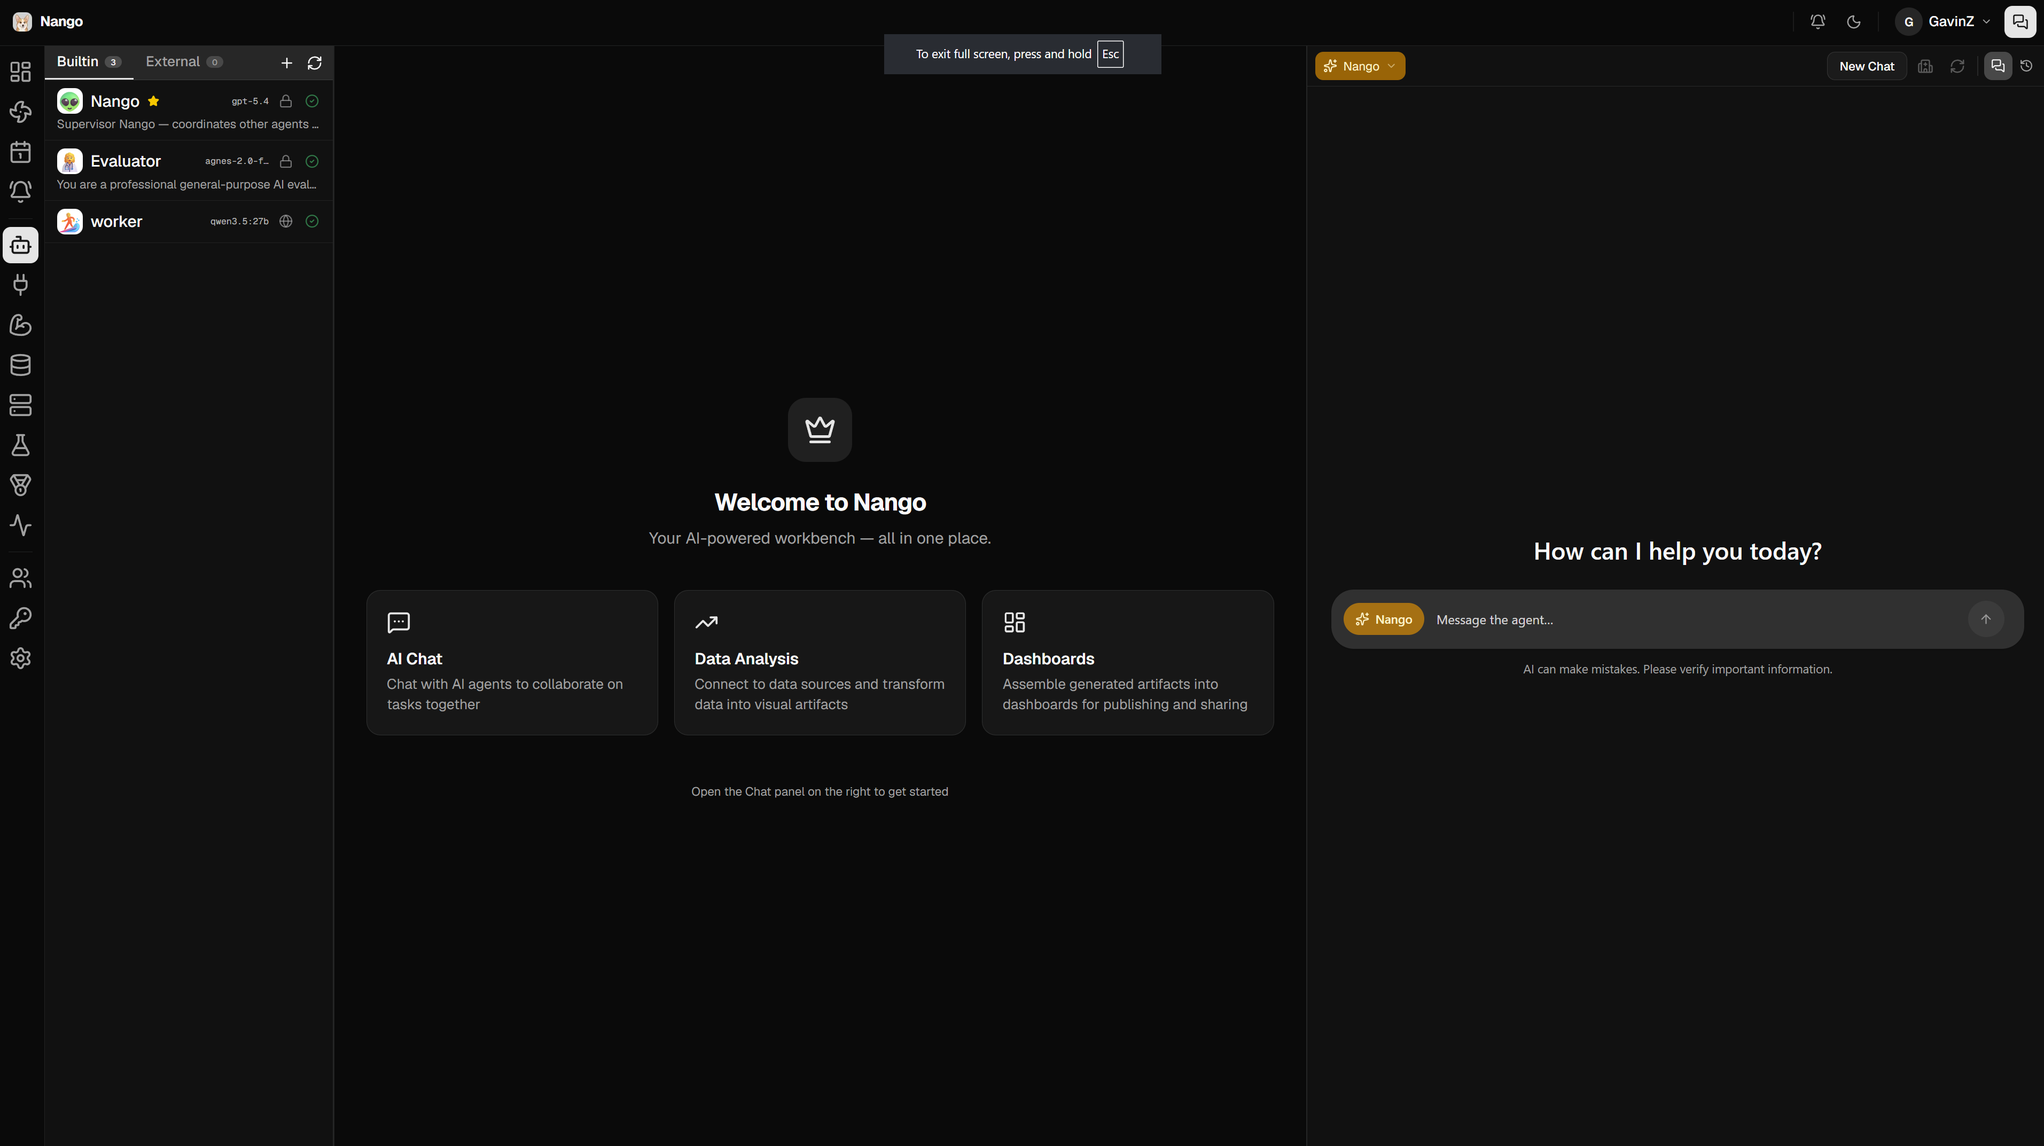
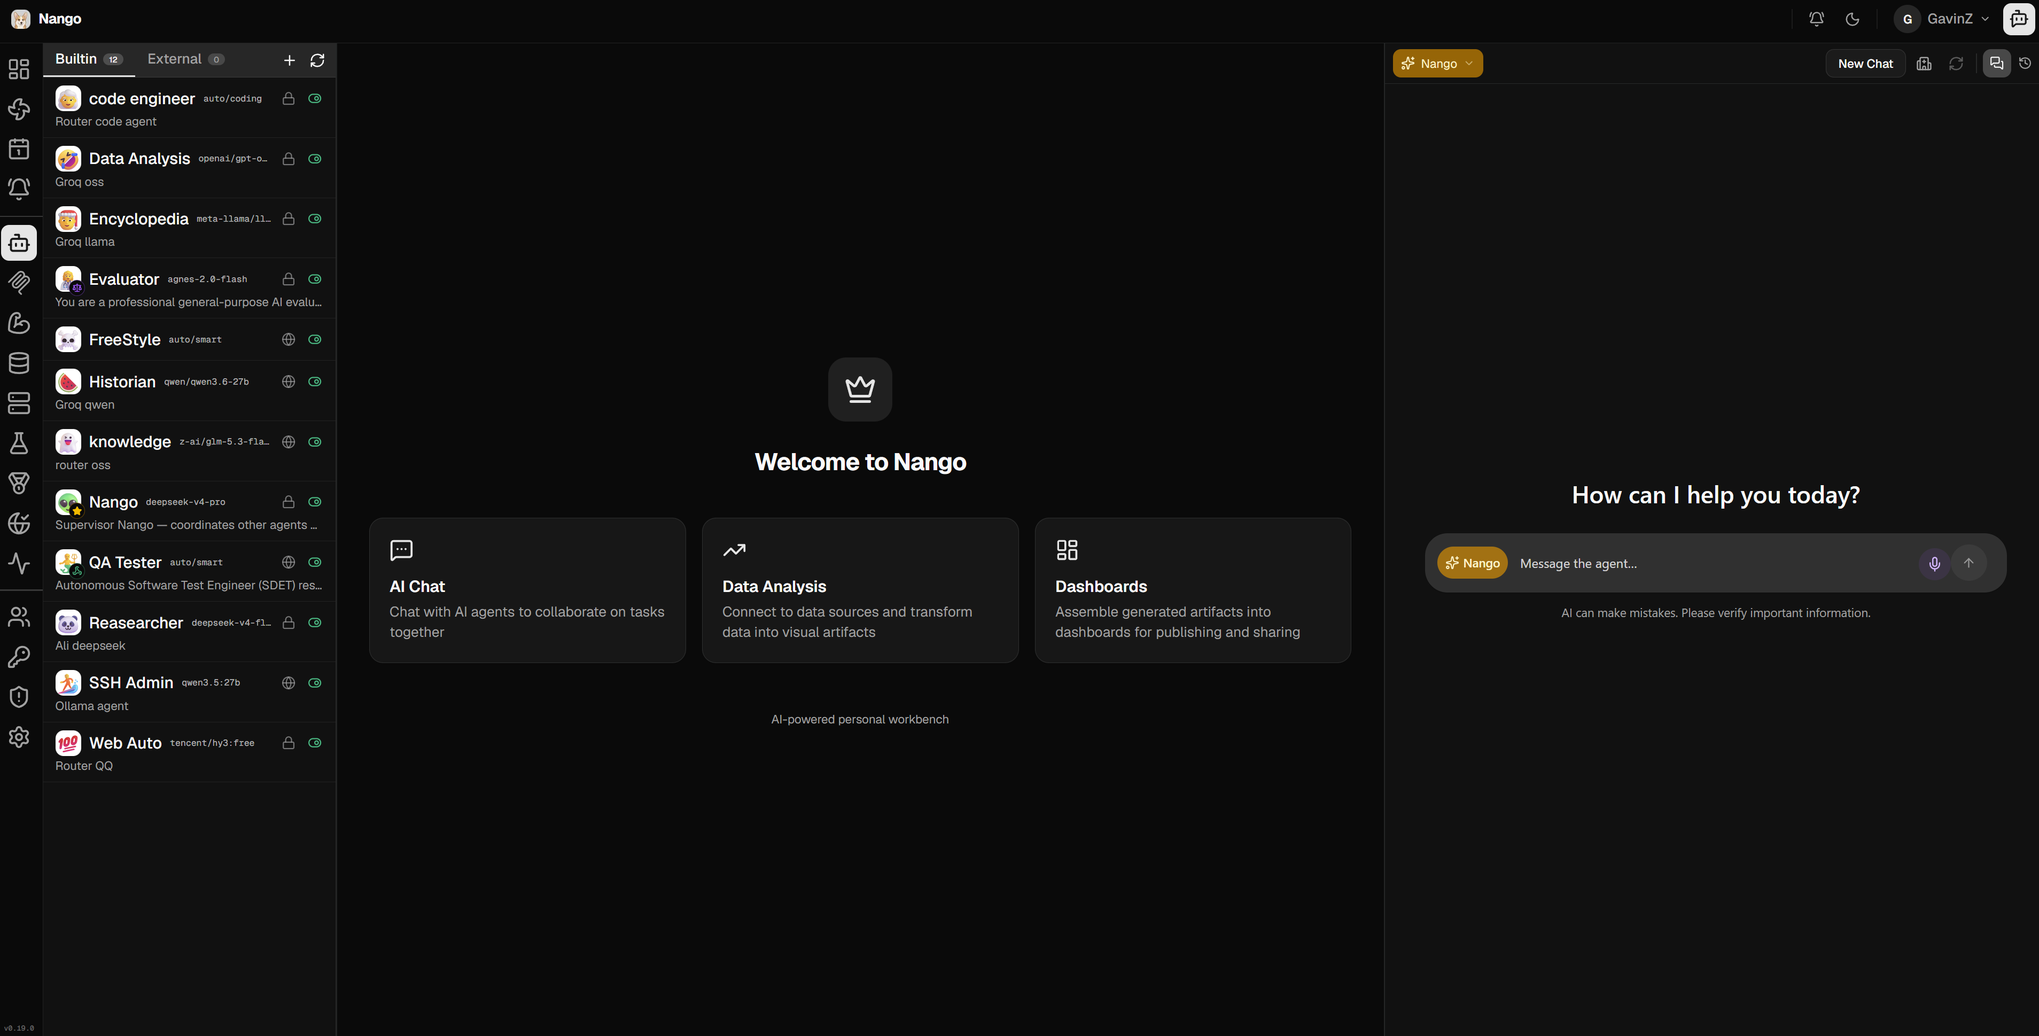
chore: update docs

diff --git a/src/components/left-panels/AgentPanel.tsx b/src/components/left-panels/AgentPanel.tsx
@@ -87,9 +87,10 @@ const CHIP = "rounded-sm px-1 py-0.5 text-[10px] leading-none font-mono";
 
 function ModelChip({ modelId }: { modelId?: string }) {
   if (!modelId) return null;
-  const label = modelId.length > 12 ? `${modelId.slice(0, 11)}…` : modelId;
   return (
-    <span className="font-mono text-[11px] text-foreground/70">{label}</span>
+    <span className="font-mono text-[11px] text-foreground/70 truncate min-w-0 shrink" title={modelId}>
+      {modelId}
+    </span>
   );
 }
 
@@ -231,19 +232,22 @@ function BackendRow({
       )}
     >
       <div className="flex items-center gap-2">
-        <div className="flex flex-1 min-w-0 items-center gap-1">
+        <div className="flex min-w-0 flex-1 items-center gap-1">
           {onOpenDetail ? (
             <button
               type="button"
-              className="cursor-pointer truncate text-left text-base font-medium hover:underline hover:underline-offset-2"
+              className="cursor-pointer truncate text-left text-base font-medium hover:underline hover:underline-offset-2 shrink-0 max-w-[calc(100%-2.25rem)]"
               onClick={onOpenDetail}
               aria-label={`Open ${name} details`}
             >
               {name}
             </button>
           ) : (
-            <span className="truncate text-base font-medium">{name}</span>
+            <span className="truncate text-base font-medium shrink-0 max-w-[calc(100%-2.25rem)]">{name}</span>
           )}
+          {/* Model chip — sits next to the name so it truncates before the
+              name when the panel narrows. */}
+          <ModelChip modelId={modelId} />
           {kind === "team" && (memberCount ?? 0) > 0 && (
             <span
               className={cn(CHIP, "flex shrink-0 items-center gap-0.5 bg-muted text-foreground/70")}
@@ -263,18 +267,18 @@ function BackendRow({
           )}
           {/* Version chip — same visual treatment as the MCP panel's
               `v{version}` label so users see the same metadata in the
-              same place across the two left panels. */}
+              same place across the two left panels. Truncates before
+              the name when the panel narrows. */}
           {version && (
-            <span className="text-xs font-normal text-muted-foreground/60 shrink-0">
+            <span className="text-xs font-normal text-muted-foreground/60 truncate min-w-0 shrink" title={`v${version}`}>
               v{version}
             </span>
           )}
         </div>
-        <ModelChip modelId={modelId} />
         <button
           type="button"
           onClick={() => onToggleDisabled(id, !disabled)}
-          className="cursor-pointer shrink-0 rounded p-0.5 hover:text-foreground"
+          className="ml-auto cursor-pointer shrink-0 rounded p-0.5 hover:text-foreground"
           aria-label={disabled ? "Enable agent" : "Disable agent"}
         >
           {disabled
@@ -386,8 +390,8 @@ function BuiltinRow({
       )}
     >
       <div className="flex items-center gap-2">
-        {/* ── Left cluster: identity (icon + role badge + name) ── */}
-        <div className="flex flex-1 min-w-0 items-center gap-2">
+        {/* ── Left cluster: identity (icon + name + model) ── */}
+        <div className="flex min-w-0 flex-1 items-center gap-2">
           {/* Agent icon with role overlay badge */}
           <div className="relative shrink-0 flex items-center justify-center">
             <span
@@ -406,24 +410,28 @@ function BuiltinRow({
           </div>
 
           {/* Name — click to edit for owner or public resources, plain span otherwise. */}
+          {/* shrink-0 + max-w protects the name from being squeezed; the ModelChip
+              carries the truncation budget when the panel narrows. */}
           {isOwner || isPublic ? (
             <button
               type="button"
-              className="cursor-pointer truncate text-left text-base font-medium hover:underline hover:underline-offset-2"
+              className="cursor-pointer truncate text-left text-base font-medium hover:underline hover:underline-offset-2 shrink-0 max-w-[calc(100%-2.25rem)]"
               onClick={() => onEdit(row)}
               aria-label={`Edit ${row.name}`}
             >
               {row.name}
             </button>
           ) : (
-            <span className="truncate text-base font-medium">{row.name}</span>
+            <span className="truncate text-base font-medium shrink-0 max-w-[calc(100%-2.25rem)]">{row.name}</span>
           )}
+
+          {/* Model chip — sits next to the name (like MCP version) so it truncates
+              before the name when the panel is squeezed. */}
+          <ModelChip modelId={row.model} />
         </div>
 
-        {/* ── Right cluster: model + visibility + enabled toggle ── */}
-        <div className="flex shrink-0 items-center gap-2">
-          <ModelChip modelId={row.model} />
-
+        {/* ── Right cluster: visibility + enabled toggle ── */}
+        <div className="ml-auto flex shrink-0 items-center gap-2">
           {/* Visibility — public/private. Click toggles for owner or admin. */}
           {canChangeVisibility ? (
             <button

diff --git a/src/app/(auth)/layout.tsx b/src/app/(auth)/layout.tsx
@@ -37,8 +37,7 @@ export default async function AuthLayout({
               Turn ideas into reality, together.
             </p>
             <p className="mt-3 text-sm leading-relaxed text-white/60">
-              Nango — an AI-first artifact workspace. Generate dashboards,
-              images, and reports through natural conversation. Everything
+              Nango — an AI-first artifact workspace. Everything
               you create is saved, not just a chat message.
             </p>
           </div>

diff --git a/src/components/layout/WelcomePage.tsx b/src/components/layout/WelcomePage.tsx
@@ -61,7 +61,7 @@ export function WelcomePage(): ReactNode {
       </div>
 
       <p className="mt-6 text-xs text-muted-foreground">
-        Your AI-powered workbench
+        AI-powered personal workbench
       </p>
     </div>
   );

diff --git a/README.md b/README.md
@@ -3,7 +3,7 @@
 
   <h1>Nango</h1>
 
-  <p><strong>An AI-native collaboration workspace for small teams — built for data analysis.</strong></p>
+  <p><strong>An AI-native collaboration workspace for individual or small teams.</strong></p>
 
   <p>
     Chat with <strong>Nango</strong>, your AI teammate. Turn one-shot answers into
@@ -22,10 +22,8 @@
   </p>
 
   <p>
-    <a href="https://github.com/GavinZha0/nango/actions/workflows/lint-and-type-check.yml"><img alt="Lint" src="https://github.com/GavinZha0/nango/actions/workflows/lint-and-type-check.yml/badge.svg?branch=main" /></a>
-    <a href="https://github.com/GavinZha0/nango/actions/workflows/e2e-tests.yml"><img alt="E2E" src="https://github.com/GavinZha0/nango/actions/workflows/e2e-tests.yml/badge.svg?branch=main" /></a>
-    <a href="https://github.com/GavinZha0/nango/actions/workflows/release-please.yml"><img alt="Release" src="https://github.com/GavinZha0/nango/actions/workflows/release-please.yml/badge.svg" /></a>
-    <a href="https://github.com/GavinZha0/nango/pkgs/container/nango"><img alt="GHCR" src="https://img.shields.io/badge/ghcr.io-nango-2496ed?logo=docker&logoColor=white" /></a>
+    <a href="https://github.com/GavinZha0/nango/actions/workflows/lint-and-type-check.yml"><img alt="Lint" src="https://img.shields.io/badge/lint-passing-green" /></a>
+    <a href="https://github.com/GavinZha0/nango/actions/workflows/e2e-tests.yml"><img alt="E2E" src="https://img.shields.io/badge/e2e-passing-green" /></a>
     <a href="https://github.com/GavinZha0/nango/releases"><img alt="Release version" src="https://img.shields.io/github/v/release/GavinZha0/nango?include_prereleases&sort=semver&color=green" /></a>
   </p>
 
@@ -33,7 +31,6 @@
     <a href="#quick-start-docker"><strong>Quick Start</strong></a> ·
     <a href="#development-setup">Development</a> ·
     <a href="#architecture-overview">Architecture</a> ·
-    <a href="#recommended-companions">Companions</a> ·
     <a href="#documentation">Docs</a>
   </p>
 </div>
@@ -42,35 +39,72 @@
 
 ## What is Nango (南瓜)?
 
-Nango is a small-team **AI collaboration platform**. Instead of a one-off chatbot,
+Nango is a small-team **AI collaboration workspace**. Instead of a one-off chatbot,
 it positions an AI agent — also named **Nango** — as a *colleague* who sits in
 the team workspace, talks to users, picks up tasks, and works with the team to
 get things done. The product's current focus is the **data analysis** workflow:
 connect a database, ask a question, get a chart, save it, schedule it, share it.
 
-Nango's design is centered around two product pillars: **AI Engine** (intelligent collaboration) and **Artifact Engine** (artifact management), which work in tandem:
+Nango's design is centered around two product pillars: **AI Engine** (intelligent
+collaboration) and **Artifact Engine** (artifact management), which work in tandem.
 
-* **Multi-source intelligence & unified protocol**: Connect to external agent platforms (agno, Mastra, Dify) or build custom in-app agents on raw LLMs (OpenAI, DeepSeek, Ollama, etc.), normalizing all streams to the **AG-UI** protocol on the server to keep API keys away from the browser.
-* **Built-in Voice Recognition & Continuous Mic (SenseVoice / OpenAI / Deepgram / FunASR)**: Native Client-VAD streaming voice activity detection with keybindings (`Ctrl+Shift+M` / `Cmd+Shift+M`). Includes pre-configured **SenseVoice ASR** (`markgzhou/sensevoice-asr-server`) integration for local offline speech recognition.
-* **Supervisor-specialist orchestration**: One built-in agent can act as the Supervisor (Nango itself) to orchestrate and delegate tasks to specialist agents using synchronous calls, tool routing, conversational handoffs, or fire-and-forget async runs.
-* **Extensible tool ecosystem**: Native bindings for **MCP (Model Context Protocol)** servers, database-resident **Skills (scripts)**, **SSH hosts**, and governed **Data Sources**.
-* **Credential lifecycle & security**: All third-party secrets (API keys, DB credentials, SSH private keys) are encrypted with **AES-256-GCM** on a versioned keyring, decrypted strictly server-side, and support zero-downtime key rotation.
-* **Governed data access & execution safety**: Enforce read-only flags and table-level allow/deny lists. SQL queries are parsed and validated before reaching the database, and results are cached as Columnar Parquet files for secure sharing and sandbox execution.
-* **Schedules, async runs & unified history**: Trigger agent runs on one-shot or recurring schedules, with async execution results pushed to a live notification inbox. All backend and built-in chat histories are persisted in PostgreSQL, with an admin forensics page to trace run execution timelines.
-* **Artifact library & save-from-chat**: Keep a folder-tree library to catalog AI-generated outputs (charts, code, HTML, images, PPT, reports), allowing users to save outputs from chat with full lineage trace back to the original workflow.
-* **Dashboard composition**: Combine multiple saved artifacts into responsive grid-layout dashboards and publish them with a stable URL.
-* **Workflow-driven refresh & re-creation**: Artifacts are backed by replayable workflows. Users can apply filters (time range, dimension slice) to charts, refresh them with live data by re-running the workflow, or use AI inside an editor to tweak the underlying query and save it as a new version.
-* **Web Automation (Web Auto)**: Deterministic Playwright browser automation and regression testing harness with dual-tier evaluation (Node.js VM sandboxed assertions + LLM-as-Judge inspection) and real-time SSE progress streaming.
-* **Verification & Evaluation Subsystems**: Deterministic assert-on-output testing for MCP tools/workflows and stochastic conversational quality evaluation for AI agents.
+---
+
+### AI Engine — Your AI Colleague
+
+- **Multi-backend agent support** — Connect agno, Mastra, Dify, or build custom in-app agents on raw LLMs (OpenAI, DeepSeek, Ollama, Groq, xAI). All streams normalized to **AG-UI** protocol server-side; API keys never reach the browser.
+- **Supervisor-specialist orchestration** — Nango acts as the supervisor, routing tasks to specialist agents via sync calls, tool routing, conversational handoffs, or async fire-and-forget runs.
+- **Extensible tool ecosystem** — Native **MCP** servers (stdio/sse/streamable), database-resident **Skills** (reusable scripts), **SSH hosts**, and governed **Data Sources** (Postgres, MySQL, MariaDB, Vertica).
+- **Custom agent builder** — Configure built-in agents with bound credentials, tools, and runtime prompts via the CopilotKit runtime.
+- **Built-in voice recognition** — Client-VAD streaming with keybindings (`Ctrl+Shift+M`), supporting **SenseVoice** (offline), OpenAI, Deepgram, and FunASR.
+
+---
+
+### Artifact Engine — Build, Publish & Refresh
+
+- **Artifact library** — Folder-tree catalog of AI-generated outputs (charts, code, HTML, images, PPT, reports) with full lineage trace back to the originating workflow.
+- **Dashboard composition** — Combine saved artifacts into responsive grid dashboards with stable publish URLs.
+- **Workflow-driven refresh** — Artifacts are backed by replayable workflows. Apply filters, refresh with live data, or use the AI editor to tweak the underlying query and save a new version.
+- **Outputs that run without AI** — Many artifacts execute independently via their underlying workflow, decoupled from the chat session.
+
+---
+
+### Security & Governance
+
+- **AES-256-GCM credential encryption** — All secrets encrypted at rest, decrypted server-side only, with versioned keyring and zero-downtime rotation.
+- **Never exposed to agents** — Agent tools access credentials via server-side handles; raw secrets never reach the LLM or browser.
+- **RBAC** — Three roles: `admin` (everything), `editor` (resource builders), `user` (consumers). Soft-delete only for user deletion.
+- **Governed data access** — Read-only flags, table-level allow/deny lists, SQL parsed & validated before execution, results cached as **Parquet** for safe sharing and sandbox execution.
+- **Input / output / tool guardrails** — Enforced at runtime for safe agent execution.
+
+---
+
+### Automation & Quality Harness
+
+
+| Subsystem | Purpose | Type |
+|---|---|---|
+| **Verification** | Deterministic assert-on-output testing for MCP tools & workflows (json_schema, jsonpath, js_expression) | Deterministic |
+| **Evaluation** | Stochastic LLM-as-Judge conversational quality assessment for agents | Stochastic |
+| **Web Auto** | Playwright-based browser automation & regression testing with dual-tier eval (VM assertions + LLM visual inspection) | Deterministic + AI |
+
+---
+
+### Additional Capabilities
+
+- **Schedules & async runs** — One-shot or recurring cron dispatch; async results push to a live notification inbox via SSE.
+- **Sandbox code execution** — Isolated Python sandbox (dify-sandbox) for safe code-execution tools.
+- **Admin forensics** — Triage layouts at `/admin/run` and `/admin/run/[id]` with full run timelines.
+- **Single-node multi-tenant runtime** — One process, long-lived; heavy work delegated outward. Not for serverless / multi-replica auto-scaling.
 
 ---
 
 ![Nango architecture diagram](public/image/nango-ui.png)
 
+
 ## Quick Start (Docker)
 
-The fastest path to a running Nango. Requires only **Docker** (≥ 20.10) and
-**Docker Compose** v2.
+Requires **Docker** (≥ 20.10) and **Docker Compose** v2.
 
 ### 1. Clone
 
@@ -85,95 +119,61 @@ cd nango
 cp .env.example .env
 ```
 
-You **must** set two encryption variables before the app will start:
+Generate required secrets:
 
 ```bash
-# Generate one 32-byte key in hex
+# Generate a 32-byte key for credential encryption
 node -e "console.log(require('crypto').randomBytes(32).toString('hex'))"
 # → e.g. c60f15a2dd1bdecd92bca72728ec8104c0570832e9d8827592bfa865ba35fc5a
 ```
 
-Put it into `.env`:
+Put them into `.env`:
 
 ```dotenv
 CREDENTIAL_ENCRYPTION_ACTIVE_KEY_ID=k1
 CREDENTIAL_ENCRYPTION_KEYRING=k1=<the-64-hex-you-just-generated>
-
-# Also set a long random session secret (32+ chars)
 BETTER_AUTH_SECRET=<another-long-random-string>
 NO_HTTPS=1
 ```
 
 ### 3. Bring everything up
 
-Pull the published multi-arch image from GitHub Container Registry:
-
 ```bash
 docker compose up -d
-```
-
-Or build locally from source (developer mode):
-
-```bash
-docker compose up -d --build
-```
-
-To upgrade to a newer published image:
-
-```bash
-docker compose pull && docker compose up -d
 ```
 
 This starts:
 
 | Container | Purpose | Port |
 |---|---|---|
-| `nango-app` | Nango Next.js server (auto-runs DB migrations on boot) | `9300` |
+| `nango-app` | Nango Next.js server (auto-runs DB migrations) | `9300` |
 | `nango-db`  | PostgreSQL 18 | `5433` → `5432` |
+| `sandbox`   | dify-sandbox (isolated Python/Node.js code execution) | `8194` |
+| `playwright`| Playwright MCP (browser automation) | `8931` |
 | `sensevoice`| SenseVoice ASR speech-to-text service | `10085` → `8000` |
 
-Then open **http://localhost:9300**.
+Open **http://localhost:9300**. The first user to sign up becomes the admin automatically.
 
-> 💡 **Voice / Speech Recognition Setup**:
-> When adding a **SenseVoice** credential in Nango (`Settings -> Credentials`):
-> - **In Docker Compose Mode** (Nango App and SenseVoice both running in Docker): Set **Base URL** to `http://sensevoice:8000` (uses internal container network and port `8000`).
-> - **In Local Dev Mode** (`pnpm dev` on host machine): Set **Base URL** to `http://localhost:10085`.
-
-The **first user to sign up becomes the admin** automatically. From the
-admin user-management page, you can promote teammates to `editor`
-(resource builders) or keep them as `user` (consumers).
-
-Compatible with **Podman**: replace `docker` with `podman` in every command.
+> 💡 **Voice Setup**: In Docker mode, set SenseVoice credential Base URL to `http://sensevoice:8000`. In local dev mode, use `http://localhost:10085`.
 
 ---
 
 ## Development Setup
 
-For contributing or running against a hot-reloading dev server.
-
-### Prerequisites
-
 | Tool | Version |
 |---|---|
 | Node.js | **≥ 24** (LTS) |
-| pnpm    | **10.32.1** (pinned via `packageManager`; `corepack enable` is enough) |
-| Docker  | needed for the bundled Postgres **and** the Python sandbox image used by code-execution tools |
-| PostgreSQL | 18 (or use the bundled `pnpm docker:db`) |
-
-### Get it running
+| pnpm    | **10.32.1** (pinned via `packageManager`) |
+| Docker  | Needed for bundled Postgres + Python sandbox |
+| PostgreSQL | 18 (or `pnpm docker:db`) |
 
 ```bash
-corepack enable          # picks up the pinned pnpm from package.json
+corepack enable          # picks up pinned pnpm
 pnpm install
-
-cp .env.example .env     # set CREDENTIAL_ENCRYPTION_KEYRING,
-                         # CREDENTIAL_ENCRYPTION_ACTIVE_KEY_ID,
-                         # and BETTER_AUTH_SECRET — see Quick Start above
-
+cp .env.example .env     # set encryption + auth secrets
 pnpm docker:db           # Postgres 18 on localhost:5433
 pnpm db:migrate          # apply schema
-
-pnpm dev                 # Next.js with Turbopack on http://localhost:9300
+pnpm dev                 # Turbopack on http://localhost:9300
 ```
 
 ---
@@ -186,13 +186,9 @@ pnpm dev                 # Next.js with Turbopack on http://localhost:9300
 
 ## Contributing
 
-Contributions are welcome. Before opening a PR:
-
-1. Skim the relevant design notes under [`docs/`](docs) for the subsystem
-   you are touching.
-2. Run lint, type-check, and tests (see `package.json`).
-3. For schema changes, generate a Drizzle migration and commit **both**
-   the SQL file and the snapshot.
+1. Skim the relevant design notes under [`docs/`](docs/) for the subsystem you are touching.
+2. Run lint, type-check, and tests: `pnpm check`.
+3. For schema changes, generate a Drizzle migration and commit **both** the SQL file and the snapshot.
 
 ---
 

diff --git a/README.zh-CN.md b/README.zh-CN.md
@@ -3,7 +3,7 @@
 
   <h1>Nango</h1>
 
-  <p><strong>面向小团队的 AI 原生协作工作空间 — 专为数据分析而构建。</strong></p>
+  <p><strong>面向小团队的 AI 原生协作工作空间</strong></p>
 
   <p>
     与 <strong>Nango</strong> 聊天，你的 AI 队友。将一次性答案转化为
@@ -118,6 +118,8 @@ docker compose pull && docker compose up -d
 |---|---|---|
 | `nango-app` | Nango Next.js 服务器（启动时自动运行 DB 迁移） | `9300` |
 | `nango-db`  | PostgreSQL 18 | `5433` → `5432` |
+| `sandbox`   | dify-sandbox（隔离的 Python/Node.js 代码执行沙箱） | `8194` |
+| `playwright`| Playwright MCP（浏览器自动化） | `8931` |
 | `sensevoice`| SenseVoice ASR 语音识别服务 | `10085` → `8000` |
 
 然后打开 **http://localhost:9300**。
